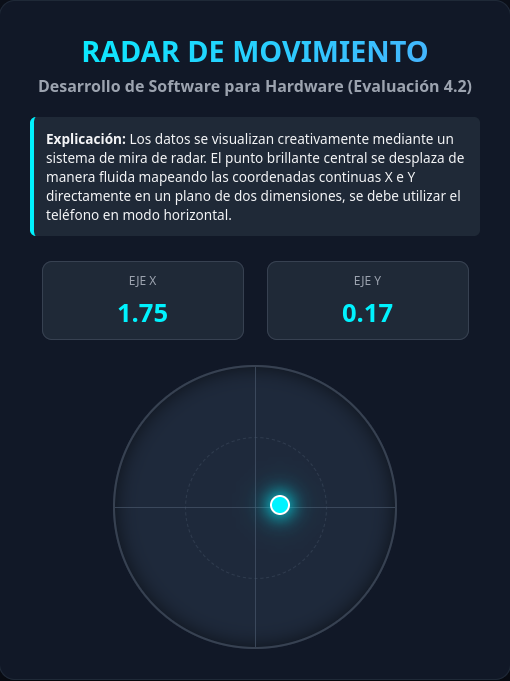
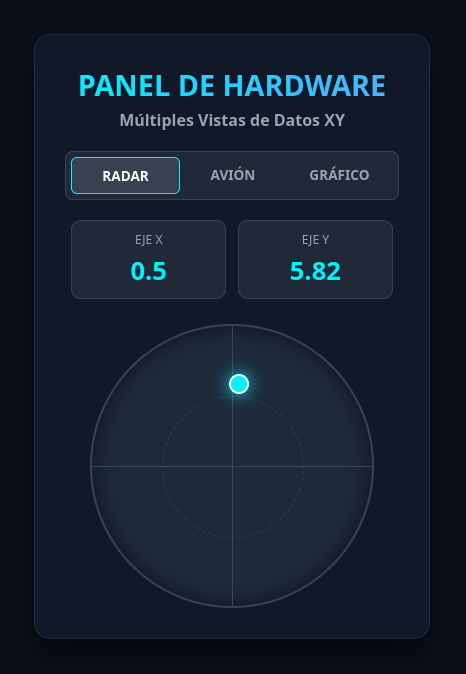
Entrega Evaluación 4.2: Arquitectura cliente TCP, sistema de 3 vistas

diff --git a/templates/index.html b/templates/index.html
@@ -2,71 +2,71 @@
 <html id="html-root">
 <head>
     <meta charset="UTF-8">
-    <meta http-equiv="refresh" content="2"> <title>DCSH01 - Radar XY</title>
+    <meta http-equiv="refresh" content="2; url=?view={{ current_view }}">
+    <title>DCSH01 - Panel de Telemetría</title>
     <style>
         /* Estilos base del tema oscuro */
         #html-root, body { background-color: #0b0f19; color: #f3f4f6; font-family: sans-serif; margin: 0; display: flex; flex-direction: column; align-items: center; justify-content: center; min-height: 100vh; }
         #main-container { background-color: #111827; border: 1px solid #1f2937; border-radius: 16px; padding: 30px; width: 90%; max-width: 450px; box-shadow: 0 20px 25px rgba(0,0,0,0.5); text-align: center; }
         
-        /* Títulos y textos */
         #main-title { font-size: 1.8rem; margin: 0; text-transform: uppercase; background: linear-gradient(135deg, #00f2fe, #4facfe); -webkit-background-clip: text; -webkit-text-fill-color: transparent; }
         #sub-title { font-size: 1rem; color: #9ca3af; margin: 5px 0 20px 0; }
-        #explanation-box { background-color: #1f2937; border-left: 4px solid #00f2fe; border-radius: 6px; padding: 12px; margin-bottom: 25px; text-align: left; font-size: 0.85rem; line-height: 1.4; }
         
+        /* Menú de Navegación */
+        #nav-menu { display: flex; justify-content: space-between; margin-bottom: 20px; background-color: #1f2937; padding: 5px; border-radius: 8px; border: 1px solid #374151; }
+        #link-radar, #link-arrows, #link-graph { flex: 1; padding: 8px; text-decoration: none; font-size: 0.85rem; font-weight: bold; border-radius: 6px; text-transform: uppercase; color: #9ca3af; }
+        #link-radar-active, #link-arrows-active, #link-graph-active { flex: 1; padding: 8px; text-decoration: none; font-size: 0.85rem; font-weight: bold; border-radius: 6px; text-transform: uppercase; color: #ffffff; background-color: #374151; border: 1px solid #00f2fe; }
+
         /* Indicadores numéricos */
         #telemetry-wrapper { display: flex; justify-content: space-around; margin-bottom: 25px; }
         #card-x, #card-y { background-color: #1f2937; border: 1px solid #374151; border-radius: 10px; padding: 10px; width: 40%; }
         #label-x, #label-y { font-size: 0.75rem; color: #9ca3af; margin: 0; text-transform: uppercase; }
         #val-x, #val-y { font-size: 1.6rem; font-weight: bold; color: #00f2fe; margin: 5px 0 0 0; }
 
-        /* Contenedor del Radar */
-        #radar-screen { 
-            position: relative; 
-            width: 280px; 
-            height: 280px; 
-            background-color: #1e293b; 
-            border: 2px solid #374151; 
-            border-radius: 50%; 
-            margin: 0 auto; 
-            overflow: hidden;
-            box-shadow: inset 0 0 20px rgba(0,0,0,0.6);
-        }
-
-        /* Líneas de los ejes X e Y del visor */
+        /* --- VISUALIZACIÓN 1: RADAR --- */
+        #radar-screen { position: relative; width: 280px; height: 280px; background-color: #1e293b; border: 2px solid #374151; border-radius: 50%; margin: 0 auto; overflow: hidden; box-shadow: inset 0 0 20px rgba(0,0,0,0.6); }
         #axis-x { position: absolute; top: 50%; left: 0; width: 100%; height: 1px; background-color: rgba(71, 85, 105, 0.7); }
         #axis-y { position: absolute; left: 50%; top: 0; width: 1px; height: 100%; background-color: rgba(71, 85, 105, 0.7); }
-        
-        /* Círculos concéntricos de referencia */
         #ring-inner { position: absolute; top: 25%; left: 25%; width: 50%; height: 50%; border: 1px dashed rgba(71, 85, 105, 0.4); border-radius: 50%; }
-
-        /* Punto indicador dinámico */
         #radar-pointer {
-            position: absolute;
-            width: 16px;
-            height: 16px;
-            background-color: #00f2fe;
-            border: 2px solid #ffffff;
-            border-radius: 50%;
-            box-shadow: 0 0 15px #00f2fe, 0 0 30px #00f2fe;
-            transform: translate(-50%, -50%);
-            transition: left 0.4s ease-out, top 0.4s ease-out;
-
-            /* Matemáticas con Jinja: Convierte rango [-10 a 10] a porcentaje [0% a 100%] */
+            position: absolute; width: 16px; height: 16px; background-color: #00f2fe; border: 2px solid #ffffff; border-radius: 50%; box-shadow: 0 0 15px #00f2fe; transform: translate(-50%, -50%);
             left: {{ ((ejeX + 10) / 20) * 100 }}%;
-            
-            /* Inversión del eje Y para que los positivos vayan hacia arriba en la pantalla */
             top: {{ (1 - ((ejeY + 10) / 20)) * 100 }}%;
         }
+
+        /* --- VISUALIZACIÓN 2: INSTRUMENTO DE HORIZONTE ARTIFICIAL (AVIÓN CLÁSICO) --- */
+        #horizon-indicator { position: relative; width: 280px; height: 280px; background-color: #1e293b; border: 4px solid #4b5563; border-radius: 50%; margin: 0 auto; overflow: hidden; box-shadow: inset 0 0 25px rgba(0,0,0,0.8); }
+        
+        /* La barra del horizonte se mueve hacia arriba/abajo (ejeY) y rota de lado (ejeX) */
+        #horizon-line { 
+            position: absolute; width: 200%; height: 4px; background-color: #00f2fe; top: 50%; left: -50%; box-shadow: 0 0 12px #00f2fe;
+            transform: translateY({{ (ejeY / 10) * -100 }}px) rotate({{ -ejeX * 4 }}deg);
+            transition: transform 0.2s ease-out;
+        }
+        
+        /* Silueta clásica estática de avión en el centro */
+        #plane-silhouette-left { position: absolute; top: 50%; left: 20%; width: 50px; height: 6px; background-color: #ef4444; transform: translateY(-50%); border-radius: 3px; box-shadow: 0 0 8px #ef4444; }
+        #plane-silhouette-right { position: absolute; top: 50%; right: 20%; width: 50px; height: 6px; background-color: #ef4444; transform: translateY(-50%); border-radius: 3px; box-shadow: 0 0 8px #ef4444; }
+        #plane-silhouette-center { position: absolute; top: 50%; left: 50%; width: 12px; height: 12px; background-color: #ef4444; transform: translate(-50%, -50%); border-radius: 50%; box-shadow: 0 0 8px #ef4444; }
+
+        /* --- VISUALIZACIÓN 3: GRÁFICO DE BARRAS DE EJE --- */
+        #graph-container { background-color: #1f2937; border: 1px solid #374151; border-radius: 12px; padding: 20px; text-align: left; }
+        #bar-title-x, #bar-title-y { font-size: 0.8rem; color: #9ca3af; margin: 0 0 5px 0; text-transform: uppercase; }
+        #bar-bg-x, #bar-bg-y { background-color: #111827; border-radius: 6px; height: 25px; width: 100%; margin-bottom: 15px; overflow: hidden; position: relative; border: 1px solid #374151; }
+        #bar-fill-x { height: 100%; background: linear-gradient(90deg, #4facfe, #00f2fe); box-shadow: 0 0 10px #00f2fe; width: {{ ((ejeX + 10) / 20) * 100 }}%; }
+        #bar-fill-y { height: 100%; background: linear-gradient(90deg, #f43f5e, #ec4899); box-shadow: 0 0 10px #f43f5e; width: {{ ((ejeY + 10) / 20) * 100 }}%; }
     </style>
 </head>
 <body>
 
 <div id="main-container">
-    <h1 id="main-title">Radar de Movimiento</h1>
-    <h2 id="sub-title">Desarrollo de Software para Hardware (Evaluación 4.2)</h2>
+    <h1 id="main-title">Panel de Hardware</h1>
+    <h2 id="sub-title">Múltiples Vistas de Datos XY</h2>
     
-    <div id="explanation-box">
-        <strong>Explicación:</strong> Los datos se visualizan creativamente mediante un sistema de mira de radar. El punto brillante central se desplaza de manera fluida mapeando las coordenadas continuas X e Y directamente en un plano de dos dimensiones, se debe utilizar el teléfono en modo horizontal.
+    <div id="nav-menu">
+        <a href="?view=radar" id="{% if current_view == 'radar' %}link-radar-active{% else %}link-radar{% endif %}">Radar</a>
+        <a href="?view=arrows" id="{% if current_view == 'arrows' %}link-arrows-active{% else %}link-arrows{% endif %}">Avión</a>
+        <a href="?view=graph" id="{% if current_view == 'graph' %}link-graph-active{% else %}link-graph{% endif %}">Gráfico</a>
     </div>
 
     <div id="telemetry-wrapper">
@@ -74,12 +74,33 @@
         <div id="card-y"><p id="label-y">Eje Y</p><p id="val-y">{{ ejeY }}</p></div>
     </div>
 
+    {% if current_view == 'radar' %}
     <div id="radar-screen">
         <div id="axis-x"></div>
         <div id="axis-y"></div>
         <div id="ring-inner"></div>
         <div id="radar-pointer"></div>
     </div>
+
+    {% elif current_view == 'arrows' %}
+    <div id="horizon-indicator">
+        <div id="horizon-line"></div>
+        
+        <div id="plane-silhouette-left"></div>
+        <div id="plane-silhouette-center"></div>
+        <div id="plane-silhouette-right"></div>
+    </div>
+
+    {% elif current_view == 'graph' %}
+    <div id="graph-container">
+        <p id="bar-title-x">Nivel Eje X</p>
+        <div id="bar-bg-x"><div id="bar-fill-x"></div></div>
+        
+        <p id="bar-title-y">Nivel Eje Y</p>
+        <div id="bar-bg-y"><div id="bar-fill-y"></div></div>
+    </div>
+    {% endif %}
+
 </div>
 
 </body>

diff --git a/app.py b/app.py
@@ -1,33 +1,71 @@
-from flask import Flask, render_template
 import socket
+import threading
+import time
+from flask import Flask, render_template, request
 
 app = Flask(__name__)
-HOST = "192.168.1.167"	## Ip del servidor
-PORT = 12345			## Puerto del servidor
 
-def leer_sensor():
-    try:
-        with socket.socket(socket.AF_INET, socket.SOCK_STREAM) as s:
-            s.connect((HOST, PORT))
-            data = s.recv(1024).decode().strip()
-            print("RECIBIDO:", data)
-            ejeX, ejeY = data.split(',')
-            ejeX = float(ejeX.replace('X:', ''))
-            ejeY = float(ejeY.replace('Y:', ''))
-            return ejeX, ejeY
+# Diccionario compartido para guardar las coordenadas en tiempo real
+DATA_STATE = {
+    'ejeX': 0.0,
+    'ejeY': 0.0
+}
 
-    except Exception as e:
-        print("ERROR:", e)
-        return 0, 0
+# CONFIGURACIÓN: Dirección IP de tu teléfono celular en la red Wi-Fi
+PHONE_IP = "192.168.1.167"  
+PORT = 12345      
+
+def socket_client():
+    """
+    Cliente TCP secundario. Se conecta al celular y procesa la telemetría.
+    """
+    while True:
+        try:
+            print(f" -> [CONECTANDO] Buscando servidor del celular en {PHONE_IP}:{PORT}...")
+            client_socket = socket.socket(socket.AF_INET, socket.SOCK_STREAM)
+            client_socket.settimeout(5.0)
+            client_socket.connect((PHONE_IP, PORT))
+            print(f" -> [ÉXITO] ¡Conectado al celular! Leyendo flujo de datos...")
+            
+            while True:
+                data = client_socket.recv(1024)
+                if not data:
+                    break
+                
+                raw_payload = data.decode('utf-8', errors='ignore').strip()
+                
+                try:
+                    if "\n" in raw_payload:
+                        raw_payload = raw_payload.split("\n")[-1]
+                    
+                    # Quitar prefijos literales "X:" y "Y:"
+                    clean_payload = raw_payload.replace("X:", "").replace("Y:", "")
+                    
+                    partes = clean_payload.split(',')
+                    if len(partes) >= 2:
+                        # SE CORRIGE EL ORDEN DE LOS EJES:
+                        # Para emular un volante/yugo de avión usando el celular de lado,
+                        # se invierte el mapeo de los índices del arreglo recibido.
+                        DATA_STATE['ejeX'] = float(partes[1].strip())
+                        DATA_STATE['ejeY'] = float(partes[0].strip())
+                except (ValueError, IndexError):
+                    pass
+            
+            client_socket.close()
+        except Exception as e:
+            print(f" -> [ERROR DE CONEXIÓN] Servidor del celular inaccesible: {e}")
+            time.sleep(2)
 
 @app.route('/')
 def index():
-    ejeY, ejeX = leer_sensor() # orden ejes
+    current_view = request.args.get('view', 'radar')
     return render_template(
-        'index.html',
-        ejeX=ejeX,
-        ejeY=ejeY
+        'index.html', 
+        ejeX=DATA_STATE['ejeX'], 
+        ejeY=DATA_STATE['ejeY'], 
+        current_view=current_view
     )
 
 if __name__ == '__main__':
-    app.run(host='0.0.0.0', port=5000, debug=True)
+    threading.Thread(target=socket_client, daemon=True).start()
+    app.run(host="0.0.0.0", port=5000, debug=False)

diff --git a/README.md b/README.md
@@ -1,29 +1,42 @@
 # Desarrollo de Software para Hardware (DCSH01)
 ## Evaluación Sumativa 4.2: Visualización Personalizada de Datos XY
 
-Este repositorio contiene una versión modificada y optimizada del proyecto base para la adquisición y visualización de datos de telemetría provenientes de un sensor móvil (acelerómetro). La interfaz ha sido rediseñada utilizando un enfoque creativo de radar interactivo.
+Este repositorio contiene una versión modificada y optimizada del proyecto base para la adquisición y visualización de datos de telemetría provenientes de un sensor móvil (acelerómetro). La interfaz ha sido rediseñada utilizando un enfoque creativo que permite alternar dinámicamente entre tres paneles de visualización
 
 ---
 
 ## Características Incorporadas
 
-* **Tema Oscuro Moderno:** Diseño con paleta de colores oscuros profundos y acentos en azul neón vibrante.
-* **Visualización Creativa en Tiempo Real:** En lugar de una cuadrícula estática rígida, se implementó un Visor de Radar de tipo mira, el cual traduce de forma continua las coordenadas analógicas de los ejes X e Y en la pantalla mediante un indicador luminoso.
-* **Comportamiento de Palanca de Mando (Yoke):** El sistema mapea de manera interactiva la inclinación física del dispositivo móvil, simulando la interfaz de control de una aeronave. 
+* **Tema Oscuro Moderno:** Diseño con paleta de colores oscuros profundos y acentos en azul neón y rosa vibrante.
+* **Sistema Multivista Integrado:** Navegación controlada desde el servidor que permite al usuario alternar mediante enlaces (`?view=`) entre tres modos de renderizado interactivo:
+  1. **Visor de Radar:** Estilo mira telescópica, que traduce las coordenadas analógicas de los ejes en un indicador luminoso central.
+  2. **Instrumento de Avión:** Un horizonte artificial clásico de aviación análoga donde la barra de horizonte rota (Eje X / *Roll*) y se desplaza verticalmente (Eje Y / *Pitch*) de forma dinámica detrás de una silueta fija.
+  3. **Gráfico de Barras:** Barras de nivel independientes con gradientes lineales a la intensidad de los ejes.
+* **Comportamiento de Palanca de Mando (Yoke):** El sistema mapea de manera interactiva la inclinación física del dispositivo móvil utilizado de forma horizontal (*landscape mode*), simulando fielmente la interfaz de control de una aeronave. 
+* **Arquitectura de Red Invertida**: Se optimizó el backend para actuar como un cliente TCP secundario que corre en un hilo independiente (`threading`). El script se conecta activamente a la IP asignada por la red al servidor de la APK en el puerto `12345`, evitando bloqueos y garantizando una captura robusta que limpia etiquetas de texto nativas (`X:`, `Y:`).
 
-### Interfaz del Radar en Funcionamiento
+---
 
+## Interfaz en Funcionamiento
+
+### 1. Vista Radar
 ![Vista del Radar Funcionando](capturas/vista-radar.png)
+
+### 2. Vista Instrumento de Avión (Horizonte Artificial)
+![Vista del Instrumento de Avión](capturas/vista-avion.png)
+
+### 3. Vista Gráfico de Barras
+![Vista del Gráfico de Barras](capturas/vista-grafico.png)
 
 ---
 
 ## Restricciones Obligatorias Cumplidas
 
 De acuerdo con los requerimientos de la evaluación, la interfaz cumple estrictamente con las siguientes reglas de diseño:
-1. Sin JavaScript: Todo el dinamismo de la interfaz y el posicionamiento en tiempo real se resuelven exclusivamente mediante lógica de servidor y condicionales inline.
-2. Uso Exclusivo de Flask, HTML, CSS y Jinja: Las posiciones relativas se calculan dinámicamente en el backend y se renderizan usando el motor de plantillas Jinja.
-3. CSS en el <head>: Todo el código de diseño de la interfaz se encuentra incorporado internamente dentro de las etiquetas <style> del bloque <head>.
-4. Uso Exclusivo de Selectores por ID: No se empleó ninguna clase CSS (.class); todos los elementos y estilos apuntan estrictamente a selectores únicos por identificador (#id).
+1. **Sin JavaScript:** Todo el dinamismo de la interfaz, el procesamiento de las vistas y el posicionamiento en tiempo real se resuelven exclusivamente mediante lógica de servidor, recargas controladas y condicionales inline.
+2. **Uso Exclusivo de Flask, HTML, CSS y Jinja:** Las posiciones relativas, rotaciones y desplazamientos se calculan en el backend y se renderizan usando el motor de plantillas Jinja.
+3. **CSS en el `<head>`:** Todo el código de diseño de la interfaz se encuentra incorporado internamente dentro de las etiquetas `<style>` del bloque `<head>`.
+4. **Uso Exclusivo de Selectores por ID:** No se empleó ninguna clase CSS (`.class`) para el comportamiento dinámico principal; los contenedores y estilos apuntan estrictamente a selectores únicos por identificador (`#id`).
 
 ---
 
@@ -31,9 +44,11 @@ De acuerdo con los requerimientos de la evaluación, la interfaz cumple estricta
 
 ```bash
 .
-├── app.py               # Servidor Flask que recibe la telemetría TCP del sensor (Ejes Y, X)
+├── app.py              # Servidor Flask y cliente TCP secundario
 ├── capturas
-│   └── vista-radar.png  # Captura de pantalla de la interfaz en funcionamiento
-├── README.md            # Documentación del proyecto modificado
+│   ├── vista-avion.png # Captura de pantalla del modo Horizonte Artificial
+│   ├── vista-grafico.png # Captura de pantalla del modo Gráfico de Barras
+│   └── vista-radar.png # Captura de pantalla del modo Radar interactivo
+├── README.md           # Documentación del proyecto modificado
 └── templates
-    └── index.html       # Plantilla HTML con estilos por ID y lógica de posicionamiento Jinja
+    └── index.html      # Plantilla HTML con estilos por ID y lógica de posicionamiento/vistas Jinja
